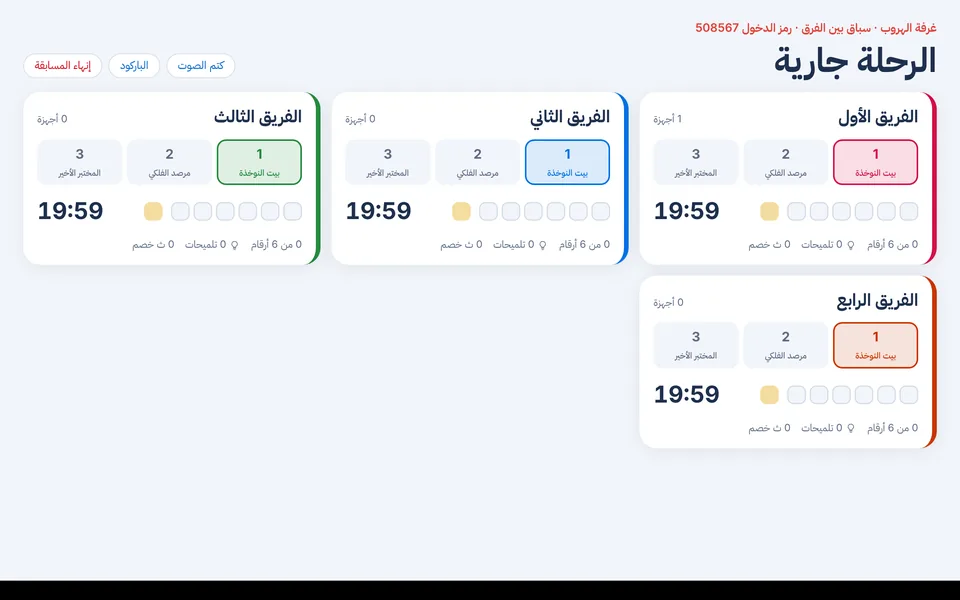
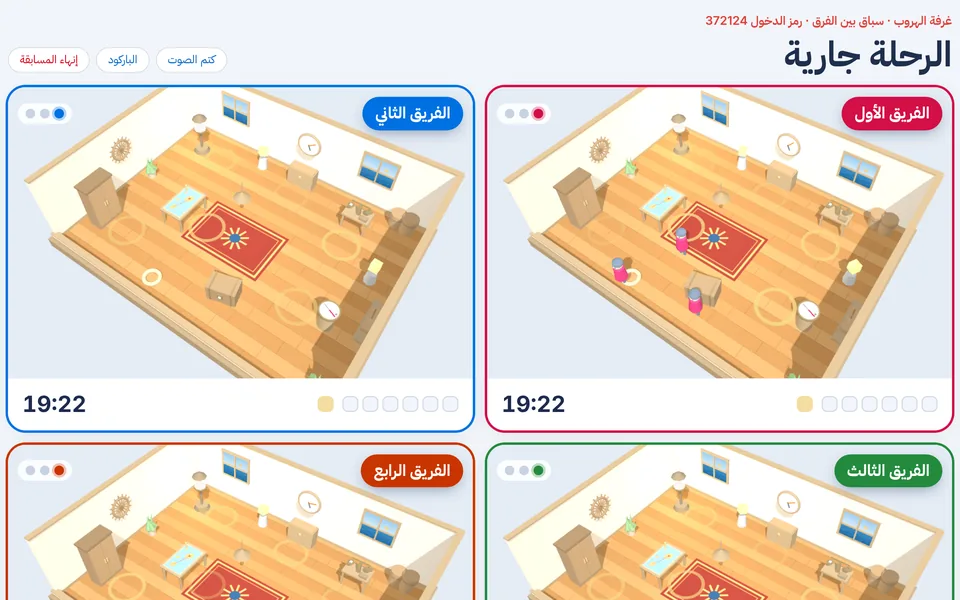
غرفة الهروب: شاشة العرض تعرض غرفة كل فريق حية بدون توضيحات
Claude-Session: https://claude.ai/code/session_01CCV9AKBpihcKW2PWXF3HwN

diff --git a/docs/index.html b/docs/index.html
@@ -1592,6 +1592,28 @@ a.btn{text-decoration:none}
 @media (max-width:820px){.tn-cards .contest.feat{flex-direction:column}.tn-cards .feat .c-shot{flex:none;border-inline-start:0;border-bottom:1px solid color-mix(in srgb,var(--hair) 70%,transparent)}.tn-cards .feat .c-body{padding:18px}.tn-cards .feat b{font-size:22px}.tn-cards .feat .go{align-self:stretch}}
 @media (max-width:980px){.contests.tn-cards{grid-template-columns:repeat(2,minmax(0,1fr))}}
 @media (max-width:620px){.contests.tn-cards{grid-template-columns:1fr}.contests-soon{grid-template-columns:1fr}}
+/* TN-ERVIEW */
+.er-race.er-live{padding:0;gap:0;overflow:hidden;border-inline-start:0;box-shadow:0 0 0 3px var(--tc),var(--shadow)}
+.er-view{position:relative;aspect-ratio:16/10;background:linear-gradient(160deg,#EAF1FB,#DCE6F4)}
+.er-vslot,.er-vcv{position:absolute;inset:0;display:block;width:100%;height:100%}
+.er-vtop{position:absolute;inset:12px 12px auto;display:flex;justify-content:space-between;align-items:center;gap:8px}
+.er-vtop b{background:var(--tc);color:#fff;font-size:20px;padding:6px 16px;border-radius:999px;box-shadow:0 6px 18px -6px rgba(16,32,72,.5)}
+.er-vrooms{display:flex;gap:6px;background:rgba(255,255,255,.86);padding:7px 10px;border-radius:999px;backdrop-filter:blur(6px)}
+.er-vrooms i{width:12px;height:12px;border-radius:50%;background:#C8D2E3}
+.er-vrooms i.now{background:var(--tc);box-shadow:0 0 0 3px color-mix(in srgb,var(--tc) 30%,transparent)}
+.er-vrooms i.ok{background:var(--good)}
+.er-vrooms i.no{background:var(--bad)}
+.er-vbot{display:flex;justify-content:space-between;align-items:center;gap:10px;background:var(--tile);padding:12px 18px}
+.er-live .er-stp i{width:20px;height:20px;border-radius:7px}
+.er-live .er-stp i.chest.on{background:var(--good)}
+.er-live .er-left{font-size:28px;color:#1d2b4f}
+.er-live .er-left.warm{color:#B25000}
+.er-live .er-left.hot{color:var(--bad)}
+.er-vdone{position:absolute;inset:0;display:grid;place-content:center;justify-items:center;gap:4px;background:color-mix(in srgb,var(--good) 55%,transparent);color:#fff;font-size:46px;font-weight:800;text-shadow:0 4px 18px rgba(16,32,72,.35)}
+.er-vdone small{font-size:20px;font-weight:600}
+.er-board:has(.er-live){grid-template-columns:repeat(var(--cols,2),minmax(0,1fr));gap:18px}
+.er-board.coop:has(.er-live){max-width:900px;margin-inline:auto}
+@media (max-width:900px){.er-board:has(.er-live){grid-template-columns:repeat(auto-fit,minmax(280px,1fr))}}
 </style>
 
 <div dir="rtl" lang="ar">
@@ -7550,7 +7572,7 @@ function erPractice(){ const G = store.get("er-local", null); if (!G) return nav
 
 /* ---------- host screen: lobby, race board, results ---------- */
 let erHostTimer = null;
-function erHostStop(){ if (erHostTimer){ clearInterval(erHostTimer); erHostTimer = null; } }
+function erHostStop(){ if (erHostTimer){ clearInterval(erHostTimer); erHostTimer = null; } ervStop(); }
 function erHostEmit(){ if (!ROOM || !ERH) return; const H = ERH;
   ROOM.emit("er.state", {g:H.id, seed:H.seed, code:H.code, names:H.names, mode:H.mode, base:H.base, mins:H.mins, hints:H.hints, hc:H.hc, pen:H.pen, rooms:H.rooms, know:H.know, cats:H.cats, dev:H.dev, phase:H.phase, startAt:H.startAt, orient:dispGet("er").player, now:Date.now()}).catch(() => {}); }
 function erHostTeams(){
@@ -7558,6 +7580,39 @@ function erHostTeams(){
   if (ROOM){ const peers = ROOM.peers().map(p => ({p, s:p.presence && p.presence.er})).filter(x => x.s && x.s.g === H.id && Number.isInteger(x.s.t) && x.s.t >= 0 && x.s.t < H.names.length && !x.s.spec);
     peers.sort((a, b) => (a.s.j || 0) - (b.s.j || 0)).forEach(x => { if (devs[x.s.t] >= H.dev) return; devs[x.s.t]++; by[x.s.t].push(x.s); }); }
   return {by, devs};
+}
+/* TN-ERVIEW: live room pictures on the host board. One hidden 3D scene per room, rendered for each team in turn
+   (its players as avatars, its solved stations lit) and copied into that team's canvas. No labels are drawn. */
+const ERV = {scenes:{}, box:null, cv:{}, last:0, busy:false};
+function ervStop(){ Object.values(ERV.scenes).forEach(s => { try { s.dispose(); } catch(e){} }); ERV.scenes = {}; ERV.cv = {};
+  if (ERV.box){ ERV.box.remove(); ERV.box = null; } }
+function ervScene(r){
+  if (ERV.scenes[r]) return ERV.scenes[r];
+  if (!ERV.box){ ERV.box = document.createElement("div"); ERV.box.setAttribute("aria-hidden", "true");
+    ERV.box.style.cssText = "position:fixed;left:-12000px;top:0;width:960px;height:600px;pointer-events:none;visibility:hidden"; document.body.appendChild(ERV.box); }
+  const el = document.createElement("div"); el.style.cssText = "position:absolute;inset:0"; ERV.box.appendChild(el);
+  const sc = new ErScene(window.THREE, el, r, {color:"#0071E3"});
+  sc.dead = true; cancelAnimationFrame(sc.raf);           // no own loop: rendered on demand below
+  window.removeEventListener("keydown", sc.onKey); window.removeEventListener("keyup", sc.onKey);
+  sc.me.visible = false; sc.renderer.setPixelRatio(1); sc.resize(); sc.home.dist *= 1.08; sc.goal.dist = sc.home.dist; sc.view = Object.assign({}, sc.goal);
+  return ERV.scenes[r] = sc;
+}
+function ervDraw(H, rows){
+  document.querySelectorAll(".er-vslot[data-erv]").forEach(slot => { const i = slot.dataset.erv;
+    let cv = ERV.cv[i]; if (!cv){ cv = ERV.cv[i] = document.createElement("canvas"); cv.width = 960; cv.height = 600; cv.className = "er-vcv"; }
+    if (cv.parentNode !== slot) slot.appendChild(cv); });
+  if (!window.THREE){ if (!ERV.busy){ ERV.busy = true; erThree().catch(() => {}).then(() => { ERV.busy = false; }); } return; }
+  const now = Date.now(); if (now - ERV.last < 700) return; ERV.last = now;
+  rows.forEach(x => { const cv = ERV.cv[x.i]; if (!cv) return;
+    const r = Math.min(x.pr.r, H.rooms - 1); let sc; try { sc = ervScene(r); } catch(e){ return; }
+    const want = new Set();
+    (x.list || []).forEach(m => { if (m.x == null || m.z == null) return; const id = (m.t || 0) + ":" + (m.j || 0); want.add(id);
+      const p = sc.peerAvatar(id, ER_COL[(m.t || 0) % 10], m.x, m.z); p.g.position.set(m.x, 0, m.z); p.g.visible = true; });
+    Object.keys(sc.peers).forEach(id => { if (!want.has(id)) sc.peers[id].g.visible = false; });
+    Object.values(sc.stations).forEach(st => { st.state = x.m.solved.has(st.s.id) ? "solved" : ""; });
+    sc.chest.ready = false;
+    try { sc.frame(); cv.getContext("2d").drawImage(sc.renderer.domElement, 0, 0, cv.width, cv.height); } catch(e){}
+  });
 }
 async function erHost(){
   erStop(); tkStop(); erHostStop(); if (!ERH) return nav("er");
@@ -7581,7 +7636,7 @@ async function erHost(){
         document.getElementById("erHStart").onclick = () => { H.phase = "play"; H.startAt = Date.now() + 15000; erHostSave(); erHostEmit(); ERA.init(); ERA.ambient(0); draw(); }; }
       set("erHTeams", teams); set("erHCount", `${n(devs.reduce((a, b) => a + b, 0))} أجهزة متصلة`);
       return; }
-    const rows = H.names.map((t, i) => { const list = H.mode === "coop" ? by.flat() : by[i], m = erMerge(list, H), pr = erProgress(H, m, now); return {i, t, m, pr, devs:devs[i]}; });
+    const rows = H.names.map((t, i) => { const list = H.mode === "coop" ? by.flat() : by[i], m = erMerge(list, H), pr = erProgress(H, m, now); return {i, t, m, pr, devs:devs[i], list}; });
     const rank = rows.slice().sort((a, b) => b.pr.escaped - a.pr.escaped || (b.pr.done - a.pr.done) || (b.pr.r - a.pr.r) || (b.pr.solvedNow - a.pr.solvedNow) || (a.pr.used - b.pr.used));
     const pre = H.startAt > now;
     if (H.phase === "end" || rows.every(x => x.pr.done) && H.phase === "play"){
@@ -7593,15 +7648,14 @@ async function erHost(){
         <div class="cta"><button type="button" class="btn" id="erHNew">مسابقة جديدة</button></div></div></section>`;
       document.getElementById("erHNew").onclick = () => { ERH = null; erHostSave(); nav("er"); }; return; }
     const card = x => { const pr = x.pr, r = Math.min(pr.r, H.rooms - 1), hot = pr.left < 60 ? " hot" : pr.left < 180 ? " warm" : "";
-      return `<div class="er-race${pr.done ? " done" : ""}" style="--tc:${H.mode === "coop" ? "var(--blue)" : ER_COL[x.i]}">
-        <div class="er-rh"><b>${H.mode === "coop" ? "كل الفرق معًا" : esc(x.t)}</b><span>${n(H.mode === "coop" ? devs.reduce((a, b) => a + b, 0) : x.devs)} أجهزة</span></div>
-        <div class="er-rooms">${Array.from({length:H.rooms}, (_, k) => { const ok = x.m.open[k], no = x.m.fail[k] && !ok; return `<span class="${ok ? "ok" : no ? "no" : k === pr.r ? "now" : ""}">${ok ? I(P.check) : n(k + 1)}<small>${ER_ROOMS[k].name}</small></span>`; }).join("")}</div>
-        ${pr.done ? `<p class="er-rdone">${pr.escaped === H.rooms ? "أنهى الرحلة وهرب من كل الغرف" : `أنهى الرحلة: ${n(pr.escaped)} من ${n(H.rooms)}`} · ${erClock(pr.used)}</p>`
-          : `<div class="er-prog"><div class="er-stp">${ER_ROOMS[r].st.map(s => `<i class="${x.m.solved.has(s.id) ? "on" : ""}" title="${s.name}"></i>`).join("")}<i class="chest"></i></div><span class="er-left${hot}">${pre ? "يبدأ بعد " + Math.ceil((H.startAt - now) / 1000) : erClock(pr.left)}</span></div>
-             <div class="er-rm"><span>${n(pr.solvedNow)} من 6 أرقام</span><span>${I(P.erbulb)} ${n(x.m.hints.length)} تلميحات</span><span>${n(Math.round(x.m.pen[r] || 0))} ث خصم</span></div>`}
-      </div>`; };
+      return `<div class="er-race er-live${pr.done ? " done" : ""}" style="--tc:${H.mode === "coop" ? "var(--blue)" : ER_COL[x.i]}">
+        <div class="er-view"><span class="er-vslot" data-erv="${x.i}"></span>
+          <div class="er-vtop"><b>${H.mode === "coop" ? "كل الفرق معًا" : esc(x.t)}</b><span class="er-vrooms">${Array.from({length:H.rooms}, (_, k) => `<i class="${x.m.open[k] ? "ok" : x.m.fail[k] ? "no" : k === pr.r ? "now" : ""}"></i>`).join("")}</span></div>
+          ${pr.done ? `<div class="er-vdone">${pr.escaped === H.rooms ? "هرب!" : `${n(pr.escaped)} / ${n(H.rooms)}`}<small>${erClock(pr.used)}</small></div>`
+            : `</div><div class="er-vbot"><div class="er-stp">${ER_ROOMS[r].st.map(s => `<i class="${x.m.solved.has(s.id) ? "on" : ""}"></i>`).join("")}<i class="chest${x.m.open[r] ? " on" : ""}"></i></div><span class="er-left${hot}">${pre ? Math.ceil((H.startAt - now) / 1000) : erClock(pr.left)}</span></div><div hidden>`}
+        </div></div>`; };
     const title = pre ? "تبدأ الرحلة بعد " + n(Math.ceil((H.startAt - now) / 1000)) + " ثانية" : "الرحلة جارية";
-    const board = `<div class="er-board${H.mode === "coop" ? " coop" : ""}">${(H.mode === "coop" ? [rows[0]] : rank).map(card).join("")}</div>
+    const board = `<div class="er-board${H.mode === "coop" ? " coop" : ""}" style="--cols:${H.mode === "coop" ? 1 : [1,1,2,3,2,3,3,4,4,5,5][H.names.length] || 4}">${(H.mode === "coop" ? [rows[0]] : rank).map(card).join("")}</div>
       ${H.mode === "coop" ? `<div class="er-teams">${rows.map(x => `<div class="er-tcard" style="--tc:${ER_COL[x.i]}"><b>${esc(x.t)}</b><span>${n(x.devs)} أجهزة · ${n(by[x.i].reduce((a, s) => a + (s.s || []).length, 0))} ألغاز</span></div>`).join("")}</div>` : ""}`;
     if (draw.shell !== "play"){ draw.shell = "play";
       $app.innerHTML = `<section class="er-host view gut"><div class="wrap">
@@ -7613,7 +7667,7 @@ async function erHost(){
       const sb = document.getElementById("erHSnd"); sb.onclick = () => { ERA.set(!ERA.on); if (ERA.on) ERA.ambient(0); sb.textContent = ERA.on ? "كتم الصوت" : "تشغيل الصوت"; };
       document.getElementById("erHQr").onclick = () => { const q = document.getElementById("erQrPop"); q.hidden = !q.hidden; };
       const e = document.getElementById("erHEnd"); e.onclick = () => { if (!e.dataset.sure){ e.dataset.sure = 1; e.textContent = "متأكد؟"; return; } H.phase = "end"; erHostSave(); erHostEmit(); ERA.stopAmb(); draw(); }; }
-    set("erHTitle", title); set("erHBoard", board);
+    set("erHTitle", title); set("erHBoard", board); ervDraw(H, H.mode === "coop" ? [Object.assign({}, rows[0], {list: by.flat()})] : rows);
     const lead = rank[0]; ERA.level = rows.some(x => !x.pr.done && x.pr.left < 60) ? 2 : rows.some(x => !x.pr.done && x.pr.left < 180) ? 1 : 0;
   };
   draw.shell = null; draw(); erHostEmit();

diff --git a/src/index.html b/src/index.html
@@ -1592,6 +1592,28 @@ a.btn{text-decoration:none}
 @media (max-width:820px){.tn-cards .contest.feat{flex-direction:column}.tn-cards .feat .c-shot{flex:none;border-inline-start:0;border-bottom:1px solid color-mix(in srgb,var(--hair) 70%,transparent)}.tn-cards .feat .c-body{padding:18px}.tn-cards .feat b{font-size:22px}.tn-cards .feat .go{align-self:stretch}}
 @media (max-width:980px){.contests.tn-cards{grid-template-columns:repeat(2,minmax(0,1fr))}}
 @media (max-width:620px){.contests.tn-cards{grid-template-columns:1fr}.contests-soon{grid-template-columns:1fr}}
+/* TN-ERVIEW */
+.er-race.er-live{padding:0;gap:0;overflow:hidden;border-inline-start:0;box-shadow:0 0 0 3px var(--tc),var(--shadow)}
+.er-view{position:relative;aspect-ratio:16/10;background:linear-gradient(160deg,#EAF1FB,#DCE6F4)}
+.er-vslot,.er-vcv{position:absolute;inset:0;display:block;width:100%;height:100%}
+.er-vtop{position:absolute;inset:12px 12px auto;display:flex;justify-content:space-between;align-items:center;gap:8px}
+.er-vtop b{background:var(--tc);color:#fff;font-size:20px;padding:6px 16px;border-radius:999px;box-shadow:0 6px 18px -6px rgba(16,32,72,.5)}
+.er-vrooms{display:flex;gap:6px;background:rgba(255,255,255,.86);padding:7px 10px;border-radius:999px;backdrop-filter:blur(6px)}
+.er-vrooms i{width:12px;height:12px;border-radius:50%;background:#C8D2E3}
+.er-vrooms i.now{background:var(--tc);box-shadow:0 0 0 3px color-mix(in srgb,var(--tc) 30%,transparent)}
+.er-vrooms i.ok{background:var(--good)}
+.er-vrooms i.no{background:var(--bad)}
+.er-vbot{display:flex;justify-content:space-between;align-items:center;gap:10px;background:var(--tile);padding:12px 18px}
+.er-live .er-stp i{width:20px;height:20px;border-radius:7px}
+.er-live .er-stp i.chest.on{background:var(--good)}
+.er-live .er-left{font-size:28px;color:#1d2b4f}
+.er-live .er-left.warm{color:#B25000}
+.er-live .er-left.hot{color:var(--bad)}
+.er-vdone{position:absolute;inset:0;display:grid;place-content:center;justify-items:center;gap:4px;background:color-mix(in srgb,var(--good) 55%,transparent);color:#fff;font-size:46px;font-weight:800;text-shadow:0 4px 18px rgba(16,32,72,.35)}
+.er-vdone small{font-size:20px;font-weight:600}
+.er-board:has(.er-live){grid-template-columns:repeat(var(--cols,2),minmax(0,1fr));gap:18px}
+.er-board.coop:has(.er-live){max-width:900px;margin-inline:auto}
+@media (max-width:900px){.er-board:has(.er-live){grid-template-columns:repeat(auto-fit,minmax(280px,1fr))}}
 </style>
 
 <div dir="rtl" lang="ar">
@@ -7419,7 +7441,7 @@ function erPractice(){ const G = store.get("er-local", null); if (!G) return nav
 
 /* ---------- host screen: lobby, race board, results ---------- */
 let erHostTimer = null;
-function erHostStop(){ if (erHostTimer){ clearInterval(erHostTimer); erHostTimer = null; } }
+function erHostStop(){ if (erHostTimer){ clearInterval(erHostTimer); erHostTimer = null; } ervStop(); }
 function erHostEmit(){ if (!ROOM || !ERH) return; const H = ERH;
   ROOM.emit("er.state", {g:H.id, seed:H.seed, code:H.code, names:H.names, mode:H.mode, base:H.base, mins:H.mins, hints:H.hints, hc:H.hc, pen:H.pen, rooms:H.rooms, know:H.know, cats:H.cats, dev:H.dev, phase:H.phase, startAt:H.startAt, orient:dispGet("er").player, now:Date.now()}).catch(() => {}); }
 function erHostTeams(){
@@ -7427,6 +7449,39 @@ function erHostTeams(){
   if (ROOM){ const peers = ROOM.peers().map(p => ({p, s:p.presence && p.presence.er})).filter(x => x.s && x.s.g === H.id && Number.isInteger(x.s.t) && x.s.t >= 0 && x.s.t < H.names.length && !x.s.spec);
     peers.sort((a, b) => (a.s.j || 0) - (b.s.j || 0)).forEach(x => { if (devs[x.s.t] >= H.dev) return; devs[x.s.t]++; by[x.s.t].push(x.s); }); }
   return {by, devs};
+}
+/* TN-ERVIEW: live room pictures on the host board. One hidden 3D scene per room, rendered for each team in turn
+   (its players as avatars, its solved stations lit) and copied into that team's canvas. No labels are drawn. */
+const ERV = {scenes:{}, box:null, cv:{}, last:0, busy:false};
+function ervStop(){ Object.values(ERV.scenes).forEach(s => { try { s.dispose(); } catch(e){} }); ERV.scenes = {}; ERV.cv = {};
+  if (ERV.box){ ERV.box.remove(); ERV.box = null; } }
+function ervScene(r){
+  if (ERV.scenes[r]) return ERV.scenes[r];
+  if (!ERV.box){ ERV.box = document.createElement("div"); ERV.box.setAttribute("aria-hidden", "true");
+    ERV.box.style.cssText = "position:fixed;left:-12000px;top:0;width:960px;height:600px;pointer-events:none;visibility:hidden"; document.body.appendChild(ERV.box); }
+  const el = document.createElement("div"); el.style.cssText = "position:absolute;inset:0"; ERV.box.appendChild(el);
+  const sc = new ErScene(window.THREE, el, r, {color:"#0071E3"});
+  sc.dead = true; cancelAnimationFrame(sc.raf);           // no own loop: rendered on demand below
+  window.removeEventListener("keydown", sc.onKey); window.removeEventListener("keyup", sc.onKey);
+  sc.me.visible = false; sc.renderer.setPixelRatio(1); sc.resize(); sc.home.dist *= 1.08; sc.goal.dist = sc.home.dist; sc.view = Object.assign({}, sc.goal);
+  return ERV.scenes[r] = sc;
+}
+function ervDraw(H, rows){
+  document.querySelectorAll(".er-vslot[data-erv]").forEach(slot => { const i = slot.dataset.erv;
+    let cv = ERV.cv[i]; if (!cv){ cv = ERV.cv[i] = document.createElement("canvas"); cv.width = 960; cv.height = 600; cv.className = "er-vcv"; }
+    if (cv.parentNode !== slot) slot.appendChild(cv); });
+  if (!window.THREE){ if (!ERV.busy){ ERV.busy = true; erThree().catch(() => {}).then(() => { ERV.busy = false; }); } return; }
+  const now = Date.now(); if (now - ERV.last < 700) return; ERV.last = now;
+  rows.forEach(x => { const cv = ERV.cv[x.i]; if (!cv) return;
+    const r = Math.min(x.pr.r, H.rooms - 1); let sc; try { sc = ervScene(r); } catch(e){ return; }
+    const want = new Set();
+    (x.list || []).forEach(m => { if (m.x == null || m.z == null) return; const id = (m.t || 0) + ":" + (m.j || 0); want.add(id);
+      const p = sc.peerAvatar(id, ER_COL[(m.t || 0) % 10], m.x, m.z); p.g.position.set(m.x, 0, m.z); p.g.visible = true; });
+    Object.keys(sc.peers).forEach(id => { if (!want.has(id)) sc.peers[id].g.visible = false; });
+    Object.values(sc.stations).forEach(st => { st.state = x.m.solved.has(st.s.id) ? "solved" : ""; });
+    sc.chest.ready = false;
+    try { sc.frame(); cv.getContext("2d").drawImage(sc.renderer.domElement, 0, 0, cv.width, cv.height); } catch(e){}
+  });
 }
 async function erHost(){
   erStop(); tkStop(); erHostStop(); if (!ERH) return nav("er");
@@ -7450,7 +7505,7 @@ async function erHost(){
         document.getElementById("erHStart").onclick = () => { H.phase = "play"; H.startAt = Date.now() + 15000; erHostSave(); erHostEmit(); ERA.init(); ERA.ambient(0); draw(); }; }
       set("erHTeams", teams); set("erHCount", `${n(devs.reduce((a, b) => a + b, 0))} أجهزة متصلة`);
       return; }
-    const rows = H.names.map((t, i) => { const list = H.mode === "coop" ? by.flat() : by[i], m = erMerge(list, H), pr = erProgress(H, m, now); return {i, t, m, pr, devs:devs[i]}; });
+    const rows = H.names.map((t, i) => { const list = H.mode === "coop" ? by.flat() : by[i], m = erMerge(list, H), pr = erProgress(H, m, now); return {i, t, m, pr, devs:devs[i], list}; });
     const rank = rows.slice().sort((a, b) => b.pr.escaped - a.pr.escaped || (b.pr.done - a.pr.done) || (b.pr.r - a.pr.r) || (b.pr.solvedNow - a.pr.solvedNow) || (a.pr.used - b.pr.used));
     const pre = H.startAt > now;
     if (H.phase === "end" || rows.every(x => x.pr.done) && H.phase === "play"){
@@ -7462,15 +7517,14 @@ async function erHost(){
         <div class="cta"><button type="button" class="btn" id="erHNew">مسابقة جديدة</button></div></div></section>`;
       document.getElementById("erHNew").onclick = () => { ERH = null; erHostSave(); nav("er"); }; return; }
     const card = x => { const pr = x.pr, r = Math.min(pr.r, H.rooms - 1), hot = pr.left < 60 ? " hot" : pr.left < 180 ? " warm" : "";
-      return `<div class="er-race${pr.done ? " done" : ""}" style="--tc:${H.mode === "coop" ? "var(--blue)" : ER_COL[x.i]}">
-        <div class="er-rh"><b>${H.mode === "coop" ? "كل الفرق معًا" : esc(x.t)}</b><span>${n(H.mode === "coop" ? devs.reduce((a, b) => a + b, 0) : x.devs)} أجهزة</span></div>
-        <div class="er-rooms">${Array.from({length:H.rooms}, (_, k) => { const ok = x.m.open[k], no = x.m.fail[k] && !ok; return `<span class="${ok ? "ok" : no ? "no" : k === pr.r ? "now" : ""}">${ok ? I(P.check) : n(k + 1)}<small>${ER_ROOMS[k].name}</small></span>`; }).join("")}</div>
-        ${pr.done ? `<p class="er-rdone">${pr.escaped === H.rooms ? "أنهى الرحلة وهرب من كل الغرف" : `أنهى الرحلة: ${n(pr.escaped)} من ${n(H.rooms)}`} · ${erClock(pr.used)}</p>`
-          : `<div class="er-prog"><div class="er-stp">${ER_ROOMS[r].st.map(s => `<i class="${x.m.solved.has(s.id) ? "on" : ""}" title="${s.name}"></i>`).join("")}<i class="chest"></i></div><span class="er-left${hot}">${pre ? "يبدأ بعد " + Math.ceil((H.startAt - now) / 1000) : erClock(pr.left)}</span></div>
-             <div class="er-rm"><span>${n(pr.solvedNow)} من 6 أرقام</span><span>${I(P.erbulb)} ${n(x.m.hints.length)} تلميحات</span><span>${n(Math.round(x.m.pen[r] || 0))} ث خصم</span></div>`}
-      </div>`; };
+      return `<div class="er-race er-live${pr.done ? " done" : ""}" style="--tc:${H.mode === "coop" ? "var(--blue)" : ER_COL[x.i]}">
+        <div class="er-view"><span class="er-vslot" data-erv="${x.i}"></span>
+          <div class="er-vtop"><b>${H.mode === "coop" ? "كل الفرق معًا" : esc(x.t)}</b><span class="er-vrooms">${Array.from({length:H.rooms}, (_, k) => `<i class="${x.m.open[k] ? "ok" : x.m.fail[k] ? "no" : k === pr.r ? "now" : ""}"></i>`).join("")}</span></div>
+          ${pr.done ? `<div class="er-vdone">${pr.escaped === H.rooms ? "هرب!" : `${n(pr.escaped)} / ${n(H.rooms)}`}<small>${erClock(pr.used)}</small></div>`
+            : `</div><div class="er-vbot"><div class="er-stp">${ER_ROOMS[r].st.map(s => `<i class="${x.m.solved.has(s.id) ? "on" : ""}"></i>`).join("")}<i class="chest${x.m.open[r] ? " on" : ""}"></i></div><span class="er-left${hot}">${pre ? Math.ceil((H.startAt - now) / 1000) : erClock(pr.left)}</span></div><div hidden>`}
+        </div></div>`; };
     const title = pre ? "تبدأ الرحلة بعد " + n(Math.ceil((H.startAt - now) / 1000)) + " ثانية" : "الرحلة جارية";
-    const board = `<div class="er-board${H.mode === "coop" ? " coop" : ""}">${(H.mode === "coop" ? [rows[0]] : rank).map(card).join("")}</div>
+    const board = `<div class="er-board${H.mode === "coop" ? " coop" : ""}" style="--cols:${H.mode === "coop" ? 1 : [1,1,2,3,2,3,3,4,4,5,5][H.names.length] || 4}">${(H.mode === "coop" ? [rows[0]] : rank).map(card).join("")}</div>
       ${H.mode === "coop" ? `<div class="er-teams">${rows.map(x => `<div class="er-tcard" style="--tc:${ER_COL[x.i]}"><b>${esc(x.t)}</b><span>${n(x.devs)} أجهزة · ${n(by[x.i].reduce((a, s) => a + (s.s || []).length, 0))} ألغاز</span></div>`).join("")}</div>` : ""}`;
     if (draw.shell !== "play"){ draw.shell = "play";
       $app.innerHTML = `<section class="er-host view gut"><div class="wrap">
@@ -7482,7 +7536,7 @@ async function erHost(){
       const sb = document.getElementById("erHSnd"); sb.onclick = () => { ERA.set(!ERA.on); if (ERA.on) ERA.ambient(0); sb.textContent = ERA.on ? "كتم الصوت" : "تشغيل الصوت"; };
       document.getElementById("erHQr").onclick = () => { const q = document.getElementById("erQrPop"); q.hidden = !q.hidden; };
       const e = document.getElementById("erHEnd"); e.onclick = () => { if (!e.dataset.sure){ e.dataset.sure = 1; e.textContent = "متأكد؟"; return; } H.phase = "end"; erHostSave(); erHostEmit(); ERA.stopAmb(); draw(); }; }
-    set("erHTitle", title); set("erHBoard", board);
+    set("erHTitle", title); set("erHBoard", board); ervDraw(H, H.mode === "coop" ? [Object.assign({}, rows[0], {list: by.flat()})] : rows);
     const lead = rank[0]; ERA.level = rows.some(x => !x.pr.done && x.pr.left < 60) ? 2 : rows.some(x => !x.pr.done && x.pr.left < 180) ? 1 : 0;
   };
   draw.shell = null; draw(); erHostEmit();
